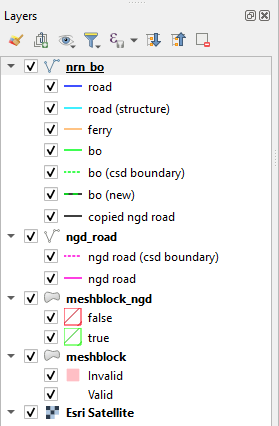
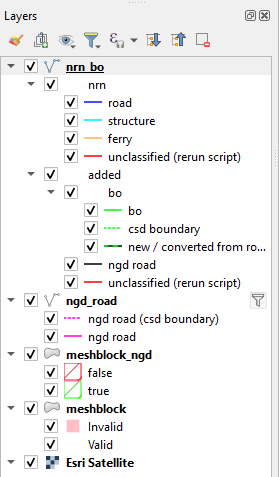
docs: [1] updated toc images; [2] removed log file sections; [3] updated outputs lists

diff --git a/docs/source/road_network_collapse/topology_validation.rst b/docs/source/road_network_collapse/topology_validation.rst
@@ -21,41 +21,10 @@ Resources
 ---------
 
 :CLI Tool: ``egp/src/topology/validate_topology.py``
-:Output: ``egp/data/validations.log``
+:Output: - Updated source layer: ``egp/data/egp_data.gpkg|layer=nrn_bo_<source>``
+         - Reference layers (for editing assistance, some exports conditional on validation results):
+             - Cluster tolerance point layer: ``egp/data/egp_data.gpkg|layer=<source>_cluster_tolerance``
 :Editing Environment: ``egp/data/egp_editing_topology.qgz``
-
-Log File
---------
-
-The output log will contain a series of standardized logs for each validation output by the script. Each logged
-validation will have the same content structure.
-
-**Generic structure:** ::
-
-    <timestamp> - WARNING: E<error code>
-
-    Values:
-    <identifier>
-    ...
-
-    Query: "<identifier_field>" in ('<identifier>', ...)
-
-**Specific structure:** ::
-
-    2022-01-04 16:00:51 - WARNING: E201
-
-    Values:
-    76d283b46076400c900ed84c02ab605f
-    c9ac2f60a0814eec9ff56bf95ad79804
-
-    Query: "segment_id" in ('76d283b46076400c900ed84c02ab605f', 'c9ac2f60a0814eec9ff56bf95ad79804')
-
-**Components:**
-
-:Values: A list containing the identifier field value of each record flagged by the validation for the target dataset.
-         The actual identifier field may vary depending on the target dataset.
-:Query: A QGIS expression to query all records flagged by the validation for the target dataset. This will contain the
-        same values as ``Values``.
 
 Editing Process
 ---------------
@@ -64,6 +33,27 @@ Editing Process
     :alt: Editing process overview.
 
     Figure 1: Editing process overview.
+
+QGIS Project
+------------
+
+Explanation of Layers
+^^^^^^^^^^^^^^^^^^^^^
+
+.. figure:: /source/_static/topology_validation/qgis_project_layers.png
+    :alt: QGIS table of contents.
+
+    Figure 2: QGIS table of contents.
+
+**Layers:**
+
+:``nrn_bo``: Primary editing layer representing NRN roads and ferries, NGD BOs, and added NGD roads.
+:``ngd_road``: NGD roads (non-BOs) to be used for identifying roads which are missing from the NRN and are required for
+               BO integration.
+:``nrn_bo``: Copy of ``nrn_bo`` intended to be used with a query / filter from validations.log. Helps to clearly see
+             features which need to be targeted without having to individually query each one.
+:``CanVec Hydro``: Reference layer to help identify features which may be aligned to CanVec Hydro.
+:``Esri Satellite``: Reference layer for recent imagery context.
 
 Validations
 ===========
@@ -77,7 +67,7 @@ Validation 101
 .. figure:: /source/_static/topology_validation/validation_101.png
     :alt: Validation 101 example.
 
-    Figure 2: Validation 101 example.
+    Figure 3: Validation 101 example.
 
 | **Description:** Arcs must be single part (i.e. "LineString").
 | **Actions:**
@@ -90,7 +80,7 @@ Validation 102
 .. figure:: /source/_static/topology_validation/validation_102.png
     :alt: Validation 102 example.
 
-    Figure 3: Validation 102 example.
+    Figure 4: Validation 102 example.
 
 | **Description:** Arcs must be >= 3 meters in length, except structures (e.g. Bridges).
 | **Actions:**
@@ -117,7 +107,7 @@ Validation 103
 .. figure:: /source/_static/topology_validation/validation_103.png
     :alt: Validation 103 example.
 
-    Figure 4: Validation 103 example.
+    Figure 5: Validation 103 example.
 
 | **Description:** Arcs must be simple (i.e. must not self-overlap, self-cross, nor touch their interior).
 | **Actions:**
@@ -145,7 +135,7 @@ Validation 104
 .. figure:: /source/_static/topology_validation/validation_104.png
     :alt: Validation 104 example.
 
-    Figure 5: Validation 104 example.
+    Figure 6: Validation 104 example.
 
 | **Description:** Arcs must have >= 0.01 meters distance between adjacent vertices (cluster tolerance).
 | **Actions:**
@@ -161,7 +151,7 @@ Validation 201
 .. figure:: /source/_static/topology_validation/validation_201.png
     :alt: Validation 201 example.
 
-    Figure 6: Validation 201 example.
+    Figure 7: Validation 201 example.
 
 | **Description:** Arcs must not be duplicated.
 | **Actions:**
@@ -174,7 +164,7 @@ Validation 202
 .. figure:: /source/_static/topology_validation/validation_202.png
     :alt: Validation 202 example.
 
-    Figure 7: Validation 202 example.
+    Figure 8: Validation 202 example.
 
 | **Description:** Arcs must not overlap (i.e. contain duplicated adjacent vertices).
 | **Actions:**
@@ -200,7 +190,7 @@ Validation 301
 .. figure:: /source/_static/topology_validation/validation_301.png
     :alt: Validation 301 example.
 
-    Figure 8: Validation 301 example.
+    Figure 9: Validation 301 example.
 
 | **Description:** Arcs must only connect at endpoints (nodes).
 | **Actions:**
@@ -214,7 +204,7 @@ Validation 302
 .. figure:: /source/_static/topology_validation/validation_302.png
     :alt: Validation 302 example.
 
-    Figure 9: Validation 302 example.
+    Figure 10: Validation 302 example.
 
 | **Description:** Arcs must be >= 5 meters from each other, excluding connected arcs (i.e. no dangles).
 | **Actions:**
@@ -235,7 +225,7 @@ Validation 303
 .. figure:: /source/_static/topology_validation/validation_303.png
     :alt: Validation 303 example.
 
-    Figure 10: Validation 303 example.
+    Figure 11: Validation 303 example.
 
 | **Description:** Arcs must not cross (i.e. must be segmented at each intersection).
 | **Actions:**

diff --git a/docs/source/road_network_collapse/meshblock_creation.rst b/docs/source/road_network_collapse/meshblock_creation.rst
@@ -16,42 +16,13 @@ Resources
 ---------
 
 :CLI Tool: ``egp/src/meshblock/validate_meshblock.py``
-:Output: - ``egp/data/validations.log``
-         - Basic metrics output to console.
+:Output: - Basic metrics output to console.
+         - Updated source layer: ``egp/data/egp_data.gpkg|layer=nrn_bo_<source>``
+         - Reference layers (for editing assistance, some exports conditional on validation results):
+             - Missing BOs layer: ``egp/data/egp_data.gpkg|layer=<source>_bo_missing``
+             - Deadend points layer: ``egp/data/egp_data.gpkg|layer=<source>_deadends``
+             - New (EGP) BB layer: ``egp/data/egp_data.gpkg|layer=<source>_meshblock``
 :Editing Environment: ``egp/data/egp_editing_meshblock.qgz``
-
-Log File
---------
-
-The output log will contain a series of standardized logs for each validation output by the script. Each logged
-validation will have the same content structure.
-
-**Generic structure:** ::
-
-    <timestamp> - WARNING: E<error code>
-
-    Values:
-    <identifier>
-    ...
-
-    Query: "<identifier_field>" in ('<identifier>', ...)
-
-**Specific structure:** ::
-
-    2022-01-04 16:00:51 - WARNING: E201
-
-    Values:
-    76d283b46076400c900ed84c02ab605f
-    c9ac2f60a0814eec9ff56bf95ad79804
-
-    Query: "segment_id" in ('76d283b46076400c900ed84c02ab605f', 'c9ac2f60a0814eec9ff56bf95ad79804')
-
-**Components:**
-
-:Values: A list containing the identifier field value of each record flagged by the validation for the target dataset.
-         The actual identifier field may vary depending on the target dataset.
-:Query: A QGIS expression to query all records flagged by the validation for the target dataset. This will contain the
-        same values as ``Values``.
 
 Editing Process
 ---------------

diff --git a/docs/source/road_network_collapse/meshblock_conflation.rst b/docs/source/road_network_collapse/meshblock_conflation.rst
@@ -34,8 +34,9 @@ Resources
 
 :CLI Tool: ``egp/src/conflation/conflate_meshblock.py``
 :Output: - Basic metrics output to console.
-         - New (EGP) BB layer: ``egp/data/egp_data.gpkg|layer=meshblock_<source>``
-         - Current (NGD) BB layer: ``egp/data/egp_data.gpkg|layer=meshblock_ngd_<source>``
+         - Updated source layer: ``egp/data/egp_data.gpkg|layer=nrn_bo_<source>``
+         - New (EGP) BB layer: ``egp/data/egp_data.gpkg|layer=<source>_meshblock``
+         - Current (NGD) BB layer: ``egp/data/egp_data.gpkg|layer=<source>_meshblock_ngd``
 :Editing Environment: ``egp/data/egp_editing_meshblock_conflation.qgz``
 
 Editing Process
